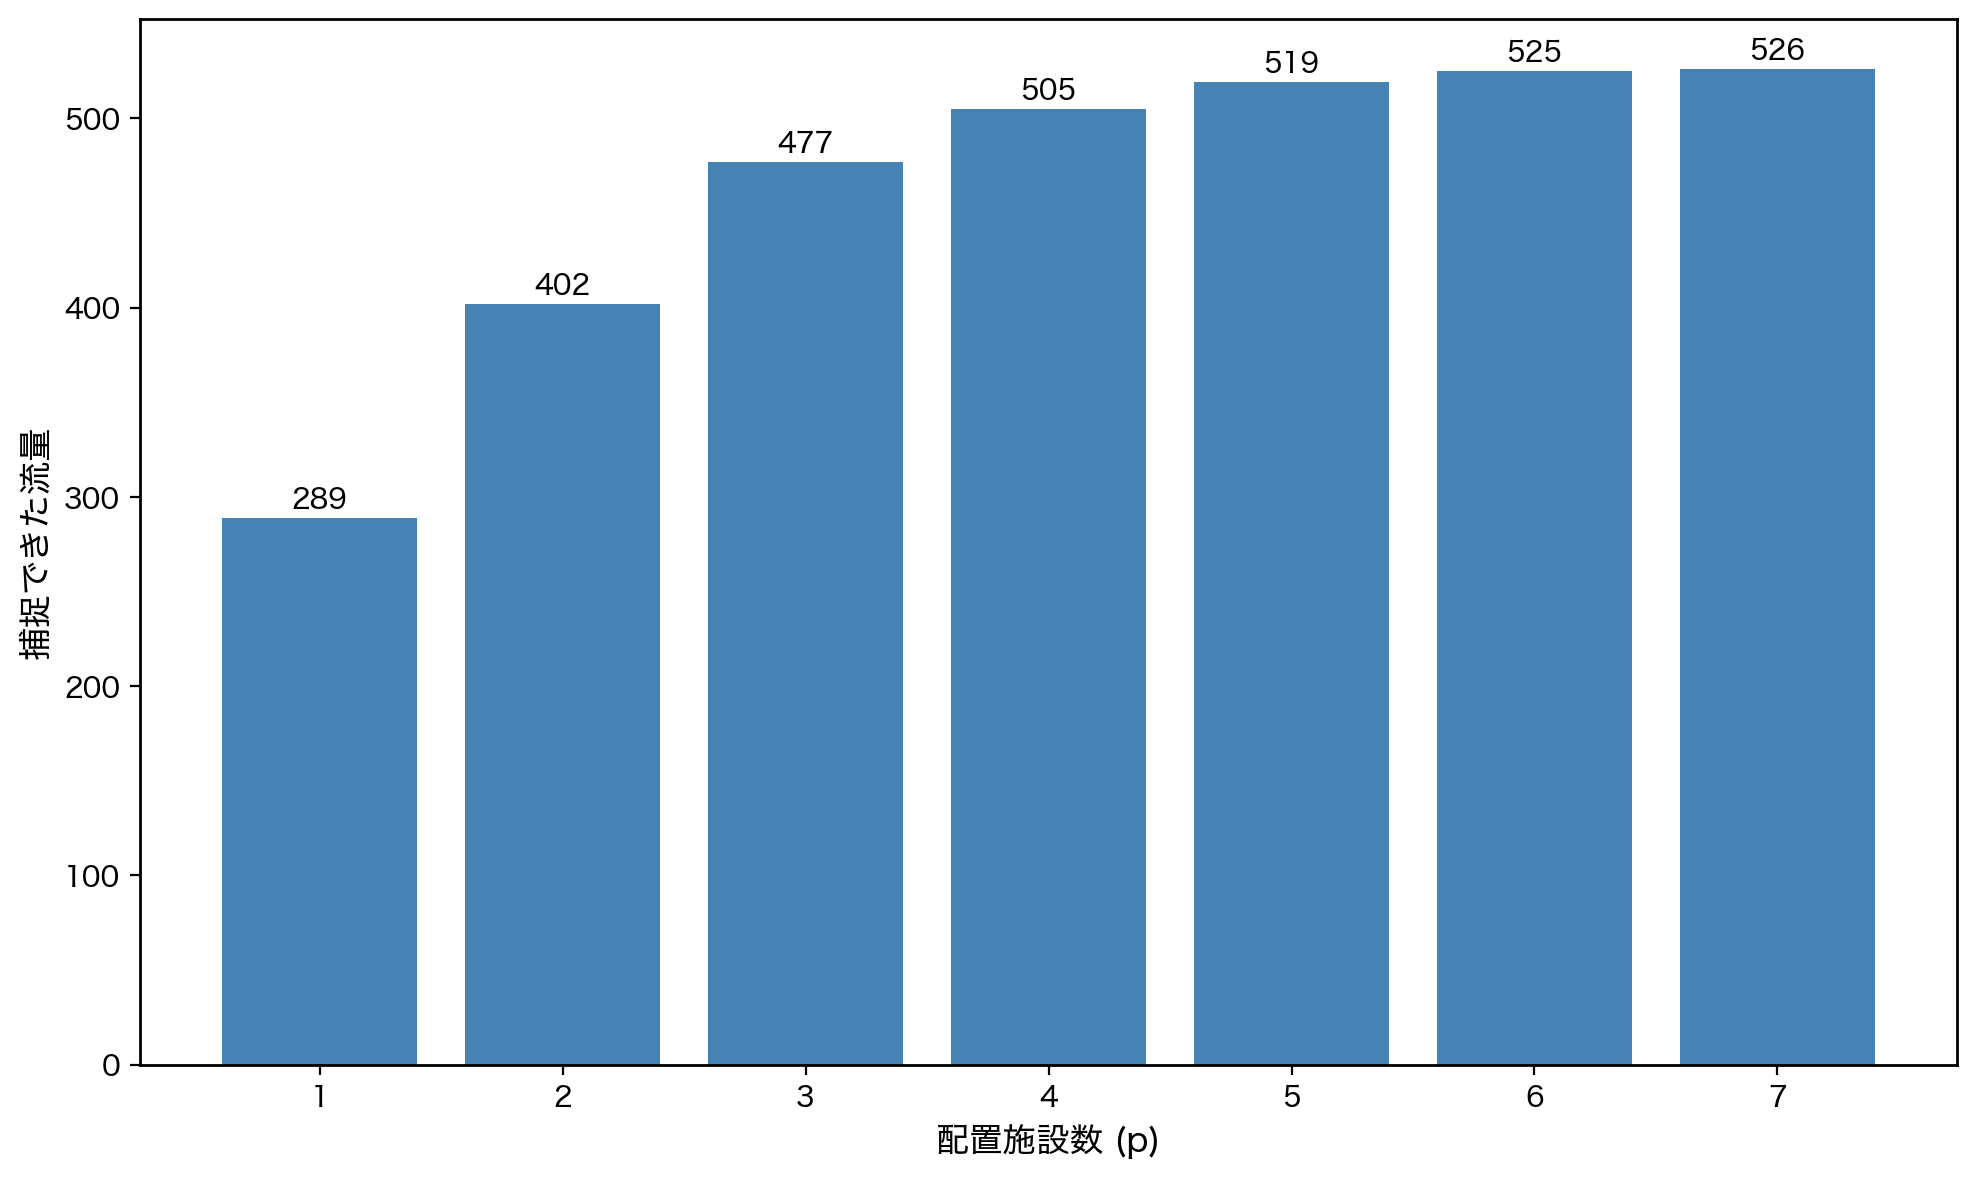
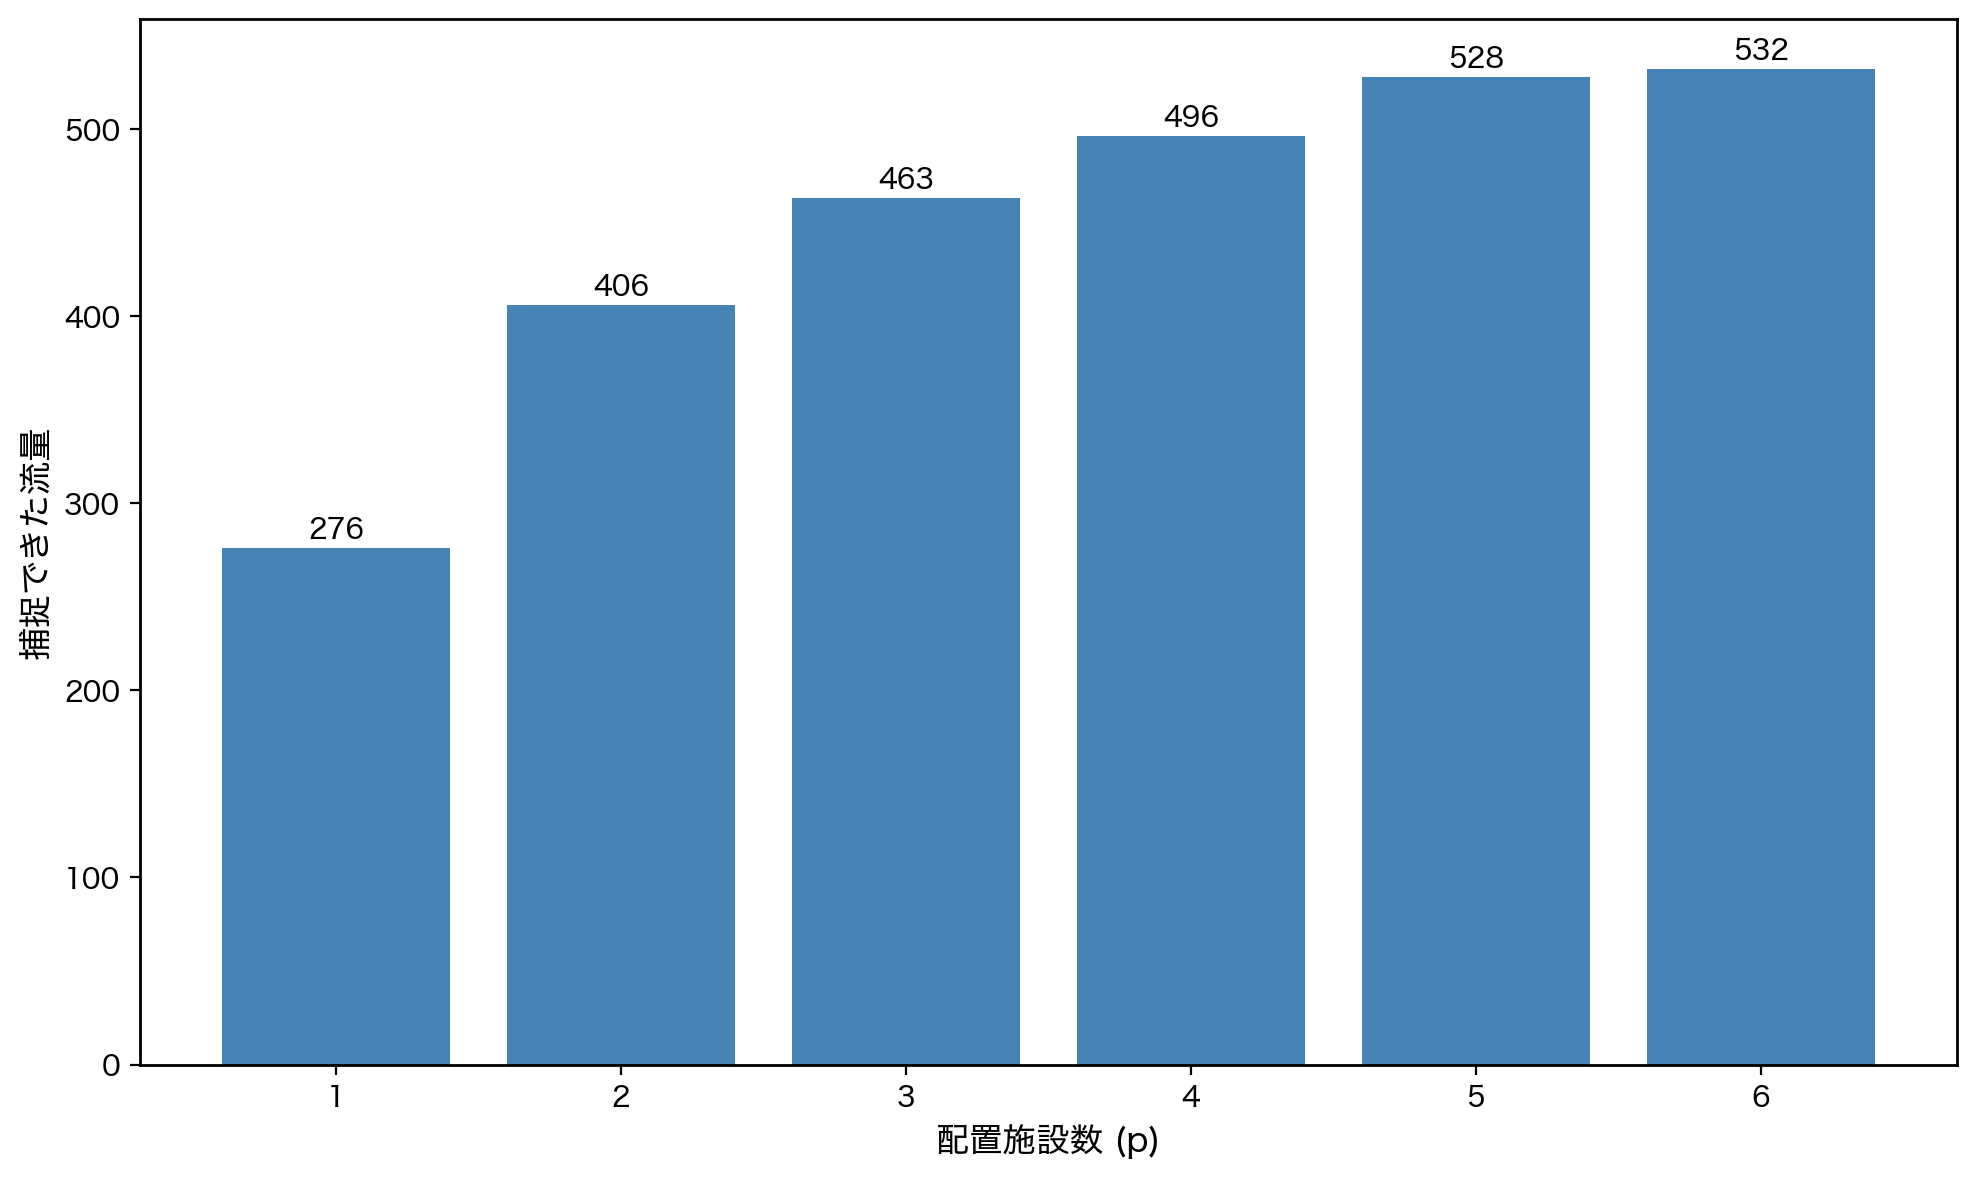
p=1のケースを追加

diff --git a/articles/20251212_flow_capturing_location_problem.md b/articles/20251212_flow_capturing_location_problem.md
@@ -1,11 +1,12 @@
 ---
-title: "フロー捕捉型配置問題を実装してみる"
+title: "JijModelingでフロー捕捉型配置問題を実装してみた"
 emoji: "🤖"
 type: "tech" # tech: 技術記事 / idea: アイデア記事
 topics:
   - "数理最適化"
   - "施設配置問題"
-  - "データ分析"
+  - "jijmodeling"
+  - "scip"
 published: true # 公開設定(falseにすると下書き)
 published_at: 2025-12-12
 publication_name: "genda_jp"
@@ -15,11 +16,11 @@ publication_name: "genda_jp"
 
 ## はじめに
 
-こんにちは、データサイエンティストのoddgaiです。M-1グランプリでは真空ジェシカ、エバース、ヨネダ2000、スタミナパンを応援しています。
+こんにちは、データサイエンティストのoddgaiです。私事ながら本日12/12は誕生日です。妻から欲しいものを聞かれたのですが何も思い浮かばず悲しくなりました。願うことはもはや家族の健康しかありません・・・
 
-さて、施設配置問題は空間内において施設の望ましい配置場所を見つける問題で、数理最適化手法の適用対象の一つです。施設配置問題といえば、p-メディアン問題やp-センター問題などが有名で、少し調べれば日本語の解説記事や実装例もいくつかヒットします。一方で、フロー捕捉型配置問題（Flow Capturing Location Problem; FCLP）^[[Hodgson, M.J., A flow-capturing location-allocation model, Geographical Analysis, 22, pp.270-279, 1990.](https://doi.org/10.1111/j.1538-4632.1990.tb00210.x)]は実務でも応用できそうなおもしろい問題なのですが、日本語の情報が論文くらいしか見当たりませんでした。
+さて、施設配置問題は空間内において施設の望ましい配置場所を見つける問題で、最適化手法の適用対象の1つです。施設配置問題といえば[p-メディアン問題](https://www.msi.co.jp/solution/nuopt/docs/examples/html/02-10-00.html)や[p-センター問題](https://www.msi.co.jp/solution/nuopt/docs/examples/html/02-11-00.html)などが有名で、少し調べれば日本語の解説記事や実装例もいくつかヒットします。一方で、フロー捕捉型配置問題（Flow Capturing Location Problem; FCLP）^[[Hodgson, M.J., A flow-capturing location-allocation model, Geographical Analysis, 22, pp.270-279, 1990.](https://doi.org/10.1111/j.1538-4632.1990.tb00210.x)]は実務でも応用できそうなおもしろい問題なのですが、日本語の情報が論文くらいしか見当たりませんでした。
 
-そこでこの記事では、FCLP^[FIP（Flow Interception Problem）やFILM（Flow Interception Location Model）など複数の呼び方がありますが、今回はFCLP（Flow Capturing Location Problem）で統一します]の概要と定式化、そしてPythonによる実装例を紹介します。施設配置問題に興味がある方や、人流データを活用した出店戦略に関心がある方の参考になれば幸いです。
+そこでこの記事では、FCLP^[FIP（Flow Interception Problem）やFILM（Flow Interception Location Model）など複数の呼び方がありますが、今回はFCLP（Flow Capturing Location Problem）で統一します]の概要と定式化、そして[JijModeling](https://jij-inc.github.io/JijModeling-Tutorials/ja/introduction.html)による実装例を紹介します。施設配置問題に興味がある方や、人流データを活用した出店戦略に関心がある方の参考になれば幸いです。
 
 ## 問題設定
 
@@ -27,14 +28,14 @@ publication_name: "genda_jp"
 
 フロー捕捉型配置問題（FCLP）は、ネットワーク上を移動する人々の流れ（フロー）に対して、なるべく多くのフローを捕捉できるように施設を配置する問題です。ここでいう「捕捉」とは、フローの経路上に何かしらの施設を配置することを表します。
 
-以下の図で説明します。図のような街にコンビニを1店舗だけ出店させたいとします。矢印のように人が移動しているとき、どこに出店すればより多くの人に（寄り道なしで）利用してもらえるか？これを決めるのがFCLPです。
+以下の図で説明します。図のような街にコンビニを1店舗だけ出店させたいとします。矢印のように人が移動しているとき、どこに出店すればより多くの人に（寄り道なしで）利用してもらえるか？このような問題がFCLPです。この図くらいの規模であれば人間でも解けますが、もっと街が大きくなったり、人が増えたり、出店数が増えると人間では手が出せなくなりそうですね。
 
 ![FCLPのイメージ図](/images/20251212_flow_capturing_location_problem/fclp_image.png)
 *道路ネットワークとその上を移動するフロー*
 
 ### 応用例
 
-FCLPは以下のように様々な場面での活用が考えられます。イメージしやすいのはコンビニなどのふらっと立ち寄る系の施設ですが、検問所や防犯カメラなど何かを検知したい場面でも使えそうです。また物理的な対象だけではなく、テレビCMの放送スケジュールといった応用例もあります。
+FCLPは以下のように様々な場面での活用が考えられます。イメージしやすいのはコンビニなどのふらっと立ち寄る系の施設ですが、検問所や防犯カメラなど何かを検知したい場面でも使えそうです。また物理的な対象だけではなく、テレビCMの放送スケジュールといった応用例も考えられています。
 
 - コンビニ
 - 宅配ロッカー
@@ -90,7 +91,7 @@ $$
 \end{align}
 $$
 
-目的関数(1)は捕捉フロー量の総和を表し、これを最大化します。式(2)は$p$個の施設を配置することを表します。式(3)は、フロー$q$を捕捉するためにはフロー$q$の経路上に少なくとも一つは施設を配置する必要があることを意味します。式(4)と式(5)は変数$x_k$と$y_q$の0-1制約です。最適解では、多くのフローを重複なく効率的に捕捉するような施設配置が得られます。
+目的関数(1)は捕捉フロー量の総和を表し、これを最大化します。式(2)は$p$個の施設を配置することを表します。式(3)は、フロー$q$を捕捉するためにはフロー$q$の経路上に少なくとも1つは施設を配置する必要があることを意味します。式(4)と式(5)は変数$x_k$と$y_q$の0-1制約です。最適解では、多くのフローを重複なく効率的に捕捉するような施設配置が得られます。
 
 ## 数値実験
 
@@ -104,7 +105,7 @@ $$
 ![ランダムな道路ネットワーク](/images/20251212_flow_capturing_location_problem/network.png)
 *今回使う道路ネットワーク*
 
-このネットワーク上にランダムなフローを流します。始点と終点をランダムに決めて、そこにランダムな流量を与えます。試しにランダムに100フロー（各フローの流量は1〜10）を流して可視化すると以下のようになりました。通過する流量に応じてノードの大きさとエッジの色を変えています。
+このネットワーク上にランダムなフローを流します。始点と終点をランダムに決めて、そこへランダムな流量を与えます。試しにランダムに100フロー（各フローの流量は1〜10）を流して可視化すると以下のようになりました。通過する流量に応じてノードの大きさとエッジの色を変えています。
 
 この状況でどこに施設を配置するのがいいのか決めます。
 
@@ -314,7 +315,7 @@ problem += jm.Constraint("フロー捕捉", y[q] <= jm.sum(k, a[q, k] * x[k]), f
 problem
 ```
 
-地味に便利だなと思ったのが、実装したモデルを以下のように数式として出力できることです。デバッグ時に役に立つのはもちろん、社内でのちょっとした共有にも使えそうです。また[marimo](https://github.com/marimo-team/marimo)ではこれを右クリックすればLatex記法がコピーできて、"理解ってるな"と思いました。
+JijModelingの機能で地味に便利だなと思ったのが、実装したモデルを以下のように数式として出力できることです。デバッグ時に役に立つのはもちろん、社内でのちょっとした共有にも使えそうです。最近では簡単なモデル実装をClaudeなどのAIにやってもらうケースもあると思いますが、その際のチェックにも重宝しそうです。また[marimo](https://github.com/marimo-team/marimo)ではこれを右クリックすればLatex記法がコピーできて、"理解ってるな"と思いました。
 
 ![ノートブックでの定式化](/images/20251212_flow_capturing_location_problem/problem_latex.png)
 *Jupyterやmarimoなどのノートブックだと数式表現を出せて便利！なんと右クリックでLatex記法がコピーできる*
@@ -353,7 +354,8 @@ example_instance = jm.Interpreter(example_dataset).eval_problem(problem)
 
 最後にソルバーを実行します。JijModelingではOMMX Adapterというツールを介すことによって、インスタンスをさまざまなソルバーで解くことができます。[Adapterの一覧はこちら](https://jij-inc.github.io/ommx/ja/user_guide/supported_ommx_adapters.html)にあり、SCIP / HiGHS / Gurobiといったメジャーなソルバーにも対応していそうです。今回はSCIPで解くので`OMMXPySCIPOptAdapter`を使います。
 
-ちなみに、今回くらいの規模（ノード数19, フロー数100, 配置施設数2〜7）であれば1インスタンスあたり0.2秒くらいで解けました。
+ちなみに、今回くらいの規模（ノード数19, フロー数100, 配置施設数2〜7）であれば1インスタンスあたり4msくらいで解けました。
+
 
 ```python
 from ommx_pyscipopt_adapter import OMMXPySCIPOptAdapter
@@ -363,28 +365,33 @@ solution = OMMXPySCIPOptAdapter.solve(example_instance)
 
 ### 結果
 
-まずは、施設を2つ配置する場合は以下のような配置になりました。流量が多い9, 10あたりが選ばれるのは直感的ですが、6が選ばれるのは少し意外に思えます。FCLPの基本モデルでは、1つのフローを1回捕捉しても複数回捕捉しても目的関数は変わらないため、なるべく多くのフローを重複なくカバーするような施設配置になります。
+まず、施設を1つ配置する場合は以下のような配置が最適解になりました。中心部にあって流量が多い9, 10あたりが選ばれそうだなと思ってましたが予想通りです。
+
+![p=1の結果](/images/20251212_flow_capturing_location_problem/result_network_p1.png)
+*施設を1つ配置した場合の最適解。黒いノードが配置場所*
+
+次に、施設を2つ配置する場合は以下のような配置になりました。10の次に選ばれるのが6なのは少し意外に思えます。FCLPの基本モデルでは、1つのフローを1回捕捉しても複数回捕捉しても目的関数は変わらないため、なるべく多くのフローを重複なくカバーするような施設配置になります。
 
 ![p=2の結果](/images/20251212_flow_capturing_location_problem/result_network_p2.png)
-*施設を2つ配置した場合の最適解。黒いノードが配置場所*
+*施設を2つ配置した場合の最適解*
 
-なお、このとき捕捉できた流量は402です。全フロー流量の合計は526なので、たった2つの施設で全体の約76%のフローを捕捉できたことになります。
+なお、このとき捕捉できた流量は406です。全フロー流量の合計は533なので、たった2つの施設で全体の約76%のフローをカバーできたことになります。
 
-次に、配置施設数を変えたときにどれくらいフローを捕捉できるか見てみます。施設数を1から7まで変化させて最適化を実行し、捕捉流量をグラフにすると以下のようになります。
+次に、配置施設数を変えたときにどれくらいフローを捕捉できるか見てみます。施設数を1から6まで変化させて最適化を実行し、捕捉流量をグラフにすると以下のようになります。
 
 ![配置施設数に対する捕捉流量](/images/20251212_flow_capturing_location_problem/result_captured_flow.png)
 *配置施設数と捕捉流量の関係*
 
-施設数が増えるほど捕捉流量も増えていますが、その増加率は徐々に小さくなっています。これは、最初の数個の施設で主要なフローを捕捉した後、追加の施設では残りの小さなフローしか捕捉できないためです。このグラフをみると$p=3,4$くらいがコスパの良い施設数な気がしますね。
+施設数が増えるほど捕捉流量も増えていますが、その増加率は徐々に小さくなっています。これは、最初の数個の施設で主要なフローを捕捉した後、追加の施設では残りの小さなフローしか捕捉できないためです。このグラフをみると$p=3, 4, 5$くらいがコスパの良い施設数な気がしますね。
 
-最後に、施設数1から6までの配置結果を並べて可視化してみます。10 → 6 → 8 → 18 →... のような順番で選ばれていくのはやはり直感に反しますが、これもフロー全体を効率的に捕捉しようとしている結果です。
+最後に、施設数1から6までの配置結果を並べて可視化してみます。10 → 6 → 8 → 3 → ... のような順番で選ばれていくのはやはり直感に反しますが、これもフロー全体を効率的に捕捉しようとしている結果です。
 
 ![施設数1から6までの配置結果](/images/20251212_flow_capturing_location_problem/result_network_p1_6.png)
 *施設数を変えたときの最適配置*
 
 ## おわりに
 
-この記事ではフロー捕捉型配置問題（FCLP）の概要、定式化、そしてPythonによる実装例を紹介しました。
+この記事ではフロー捕捉型配置問題（FCLP）の概要、定式化、そしてJijModelingによる実装例を紹介しました。
 
 近年はGPSなどから詳細な人流データが取得できるようになっているため、FCLPのような最適化モデルの実用性も高まっているのではないかと思っています。
 
